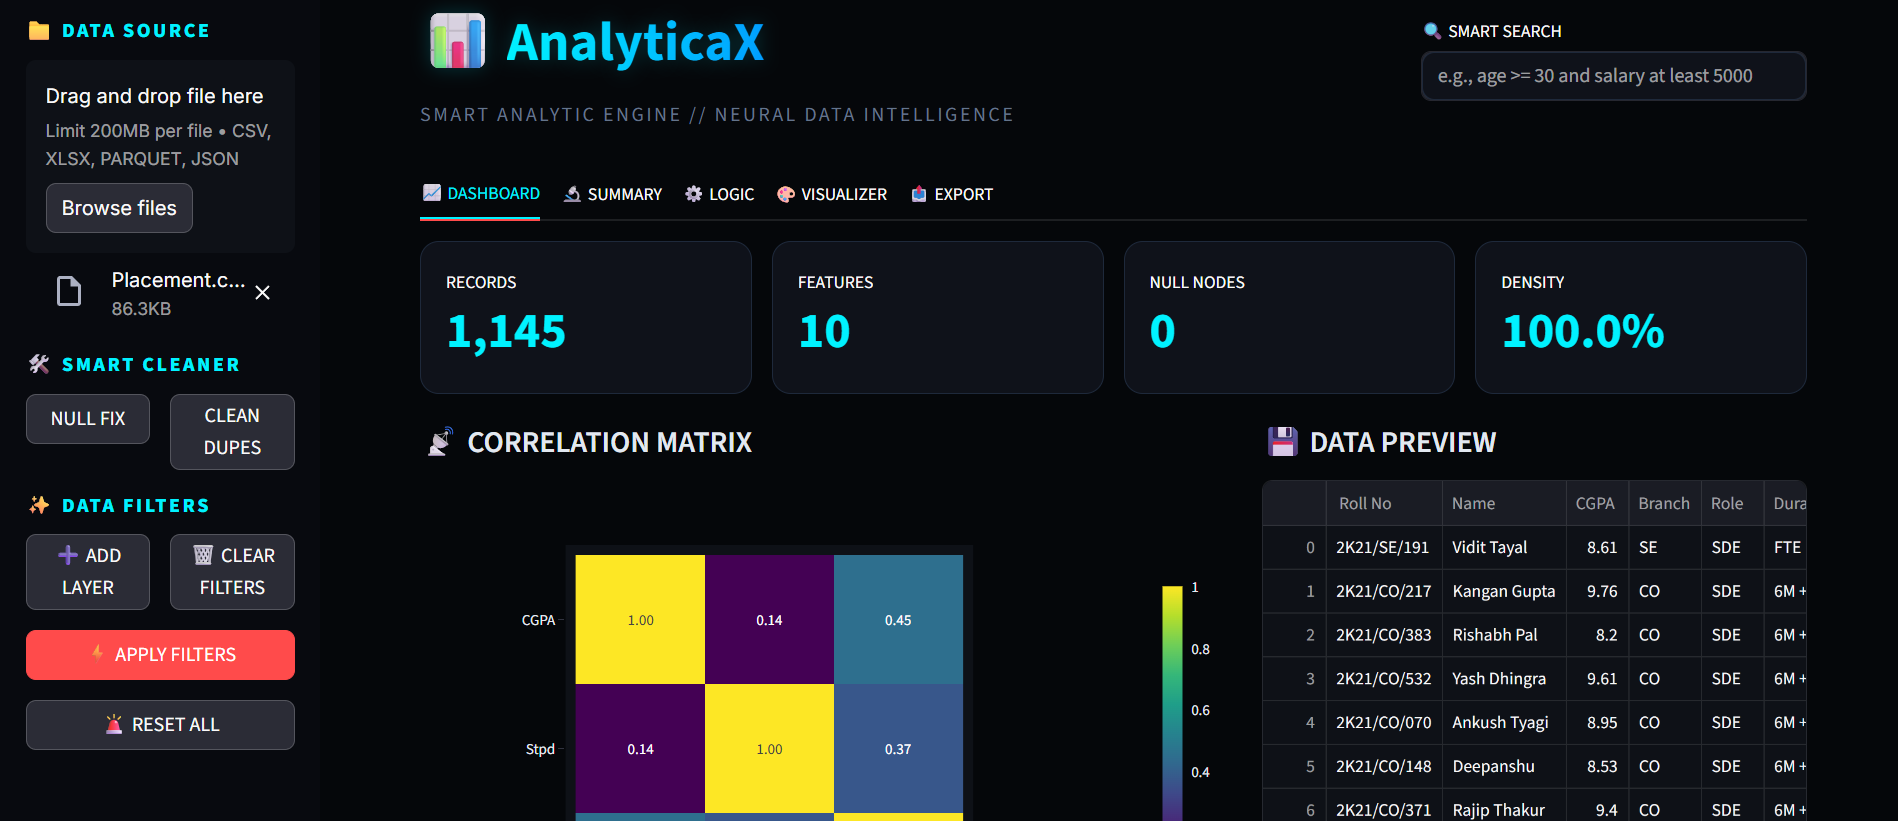
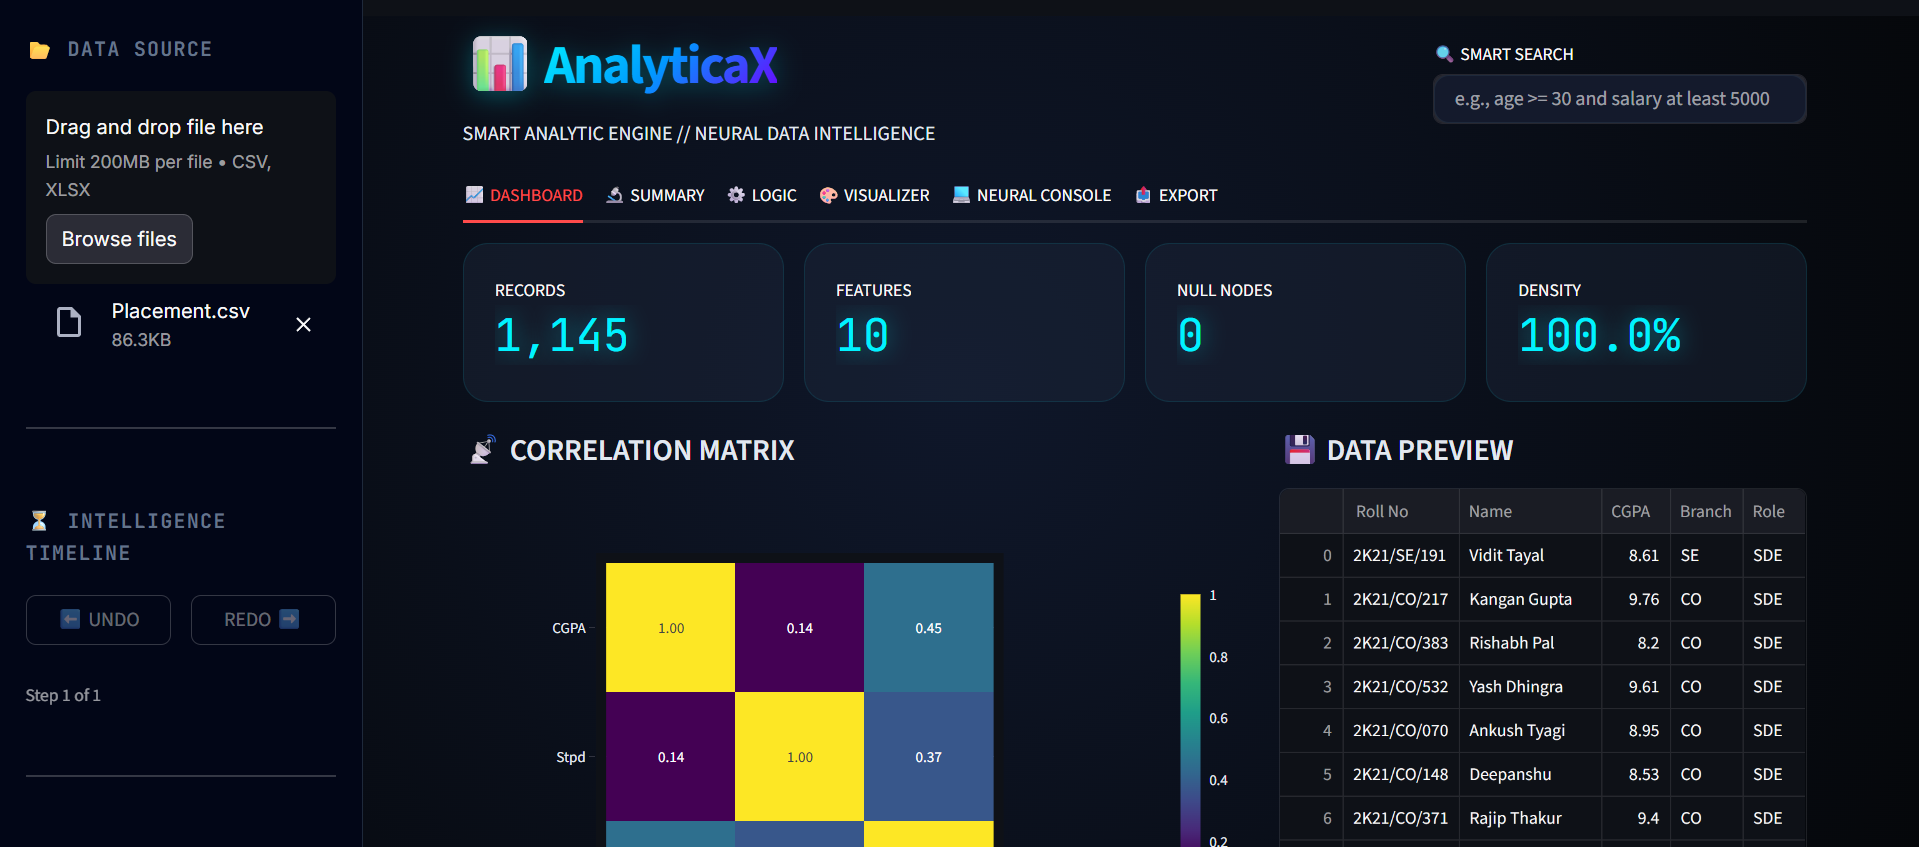
added new projects

diff --git a/src/components/ProjectsShowcase.tsx b/src/components/ProjectsShowcase.tsx
@@ -14,6 +14,9 @@ import sudokusolverImg from "@/assets/sudokusolver.png";
 import simongameImg from "@/assets/simongame.png";
 import drumkitImg from "@/assets/drumkit.png";
 import keeperImg from "@/assets/keeper.png";
+import documindaiImg from "@/assets/documindai.png";
+import researchmindImg from "@/assets/researchmind.png";
+import vislidesImg from "@/assets/vislides.png";
 
 const projects = [
   {
@@ -30,6 +33,54 @@ const projects = [
   },
   {
     id: 2,
+    title: "VI-Slides",
+    category: "Web Dev",
+    description:
+      "VI-Slides is a real-time student-teacher interaction platform enabling live sessions with screen sharing, audio, whiteboard, polls, assignments, AI powered Q&A, todos, and notifications. Built using WebRTC and Socket.IO for low-latency, seamless real-time communication.",
+    tech: ["React.js", "WebRTC", "Socket.IO", "Node.js", "Express.js", "Tailwind CSS", "TypeScript"],
+    image: vislidesImg,
+    gradient: "from-violet-500 to-purple-600",
+    github: "https://github.com/Vikas-Sharma04/Vi-Slides",
+    live: "https://vi-slides-vs.vercel.app",
+  },
+  {
+    id: 3,
+    title: "DocuMind AI",
+    category: "AI/ML",
+    description:
+      "DocuMind AI is a premium platform transforming PDFs into interactive partners using LangChain, ChromaDB, and RAG. It features a sleek dark UI, automated ingestion with real-time vector processing, and three intelligent modes: Chat for general queries, RAG Search for fact-finding, and Consultant mode for thematic analysis.",
+      tech: ["LangChain", "ChromaDB", "RAG", "Python", "Streamlit", "Vector Processing"],
+      image: documindaiImg,
+    gradient: "from-blue-500 to-cyan-600",
+    github: "https://github.com/Vikas-Sharma04/DocuMind-AI",
+    live: "https://docu-mind-ai-vs.streamlit.app/",
+  },
+  {
+    id: 4,
+    title: "AnalyticaX",
+    category: "Python",
+    description:
+      "AnalyticaX is an advanced data analytics platform that transforms raw datasets into interactive dashboards and automated statistical summaries. Supports dynamic filtering, aggregation, and visualization using Plotly and Streamlit for business-ready insights. Also integrated with an AI-powered code editor.",
+    tech: ["Python", "Pandas", "NumPy", "Plotly", "Matplotlib", "Streamlit"],
+    image: analyticaxImg,
+    gradient: "from-emerald-500 to-teal-600",
+    github: "https://github.com/Vikas-Sharma04/AnalyticaX",
+    live: "https://analyticax.streamlit.app/",
+  },
+  {
+    id: 5,
+    title: "ResearchMind",
+    category: "AI/ML",
+    description:
+      "Advanced multi-agent AI research system powered by Mistral, Tavily, and BeautifulSoup. This platform features a dynamic horizontal pipeline where specialized agents collaborate to search, scrape, write, and critique deep technical reports in real-time. Built with LangChain and Streamlit for professional, high-speed research.",
+    tech: ["Mistral", "Tavily", "BeautifulSoup", "LangChain", "Python", "Streamlit"],
+    image: researchmindImg,
+    gradient: "from-amber-500 to-orange-600",
+    github: "https://github.com/Vikas-Sharma04/ResearchMind",
+    live: "https://researchmind-vs.streamlit.app/",
+  },
+  {
+    id: 6,
     title: "CollabX",
     category: "Web Dev",
     description:
@@ -41,9 +92,9 @@ const projects = [
     live: "https://collabx-vs.vercel.app/",
   },
   {
-    id: 3,
+    id: 7,
     title: "IPL Match Predictor",
-    category: "ML",
+    category: "AI/ML",
     description:
       "A machine learning-driven prediction engine that estimates second-innings IPL scores using advanced feature engineering on match metrics like run rate, wickets, and venue patterns. Integrated into an interactive Streamlit application for real-time predictive analytics.",
     tech: ["Python", "Scikit-Learn", "Pandas", "NumPy", "Matplotlib", "Streamlit"],
@@ -53,19 +104,7 @@ const projects = [
     live: "https://ipl-match-score-predictor-vs.streamlit.app/",
   },
   {
-    id: 4,
-    title: "AnalyticaX",
-    category: "Python",
-    description:
-      "AnalyticaX is an advanced data analytics platform that transforms raw datasets into interactive dashboards and automated statistical summaries. Supports dynamic filtering, aggregation, and visualization using Plotly and Streamlit for business-ready insights.",
-    tech: ["Python", "Pandas", "NumPy", "Plotly", "Matplotlib", "Streamlit"],
-    image: analyticaxImg,
-    gradient: "from-emerald-500 to-teal-600",
-    github: "https://github.com/Vikas-Sharma04/AnalyticaX",
-    live: "https://analyticax.streamlit.app/",
-  },
-  {
-    id: 5,
+    id: 8,
     title: "RecipeHub",
     category: "Web Dev",
     description:
@@ -77,7 +116,7 @@ const projects = [
     live: "https://recipe-hub-vs.vercel.app/",
   },
   {
-    id: 6,
+    id: 9,
     title: "OmniAI",
     category: "Web Dev",
     description:
@@ -89,7 +128,7 @@ const projects = [
     live: "https://omni-ai-zeta.vercel.app",
   },
   {
-    id: 7,
+    id: 10,
     title: "Snake Game",
     category: "Python",
     description:
@@ -101,7 +140,7 @@ const projects = [
     live: "https://snake-game-pygame.vercel.app/",
   },
   {
-    id: 8,
+    id: 11,
     title: "TaskFlow",
     category: "Web Dev",
     description:
@@ -113,7 +152,7 @@ const projects = [
     live: "https://taskflow-vs.vercel.app/",
   },
   {
-    id: 9,
+    id: 12,
     title: "Sudoku Solver",
     category: "Mini Projects",
     description:
@@ -125,7 +164,7 @@ const projects = [
     live: "http://sudoku-solver-vs.vercel.app/",
   },
   {
-    id: 10,
+    id: 13,
     title: "Simon Game",
     category: "Mini Projects",
     description:
@@ -137,7 +176,7 @@ const projects = [
     live: "https://vikas-sharma04.github.io/SimonGame/",
   },
   {
-    id: 11,
+    id: 14,
     title: "DrumKit",
     category: "Mini Projects",
     description:
@@ -149,7 +188,7 @@ const projects = [
     live: "https://vikas-sharma04.github.io/DrumKit/",
   },
   {
-    id: 12,
+    id: 15,
     title: "Keeper App",
     category: "Mini Projects",
     description:
@@ -162,7 +201,7 @@ const projects = [
   },
 ];
 
-const categories = ["All", "Web Dev", "ML", "Python", "Mini Projects"];
+const categories = ["All", "Web Dev", "AI/ML", "Python", "Mini Projects"];
 
 const ProjectsShowcase = () => {
   const [activeCategory, setActiveCategory] = useState("All");
